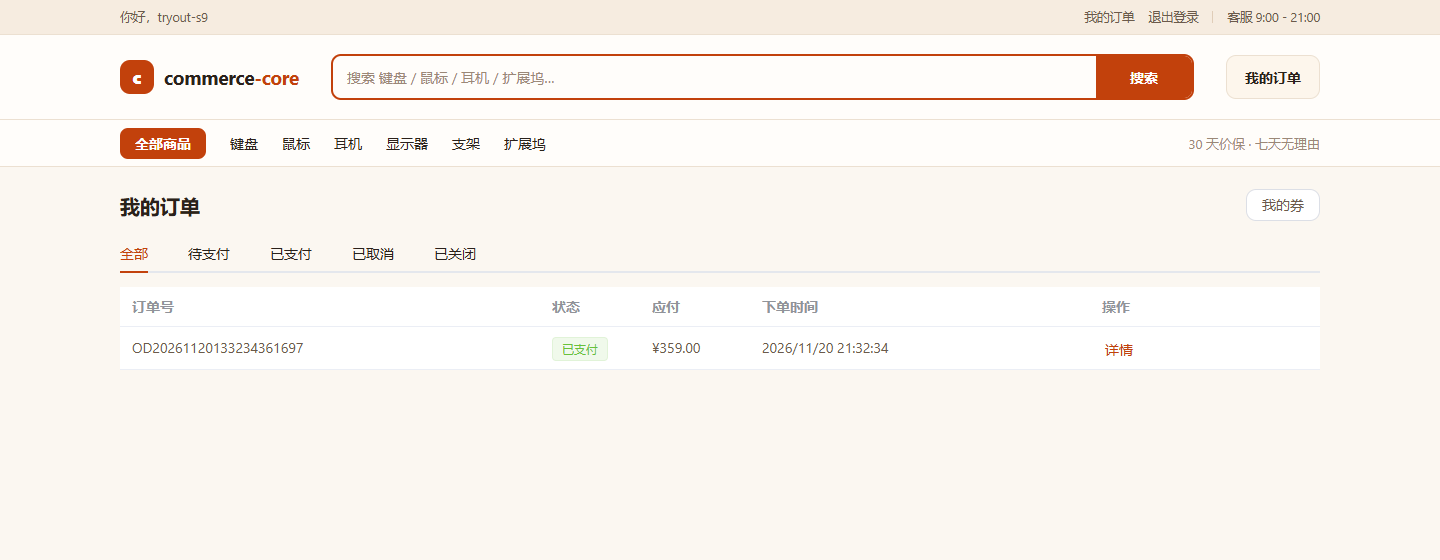
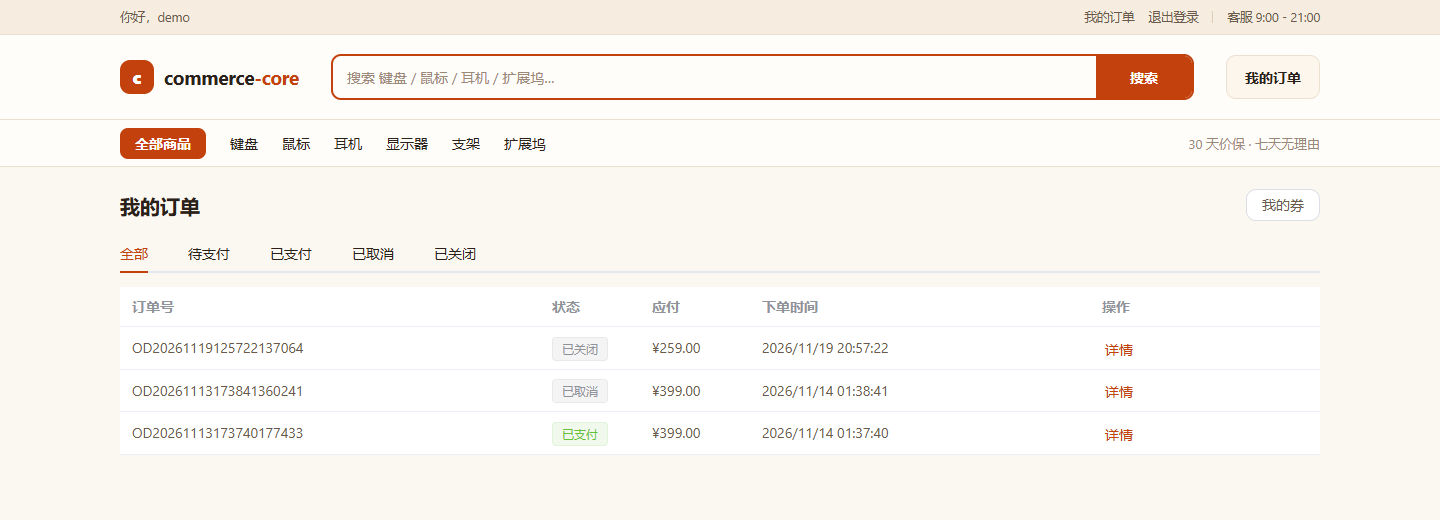
docs: S9 上线后同步 README 界面截图、STATUS 与 phase9 证据
README 四张图换成线上实拍（demo 账号），接口表补 /auth/register 与新的筛选参数，不做清单去掉注册。

STATUS 指向 643049d 与 S10；phase9 补上线记录与服务器 seed 结果。

diff --git a/STATUS.md b/STATUS.md
@@ -1,30 +1,27 @@
 # STATUS
 
-> 更新于 2026-11-20（S9 开发完成，待合回 main 上线）。滚动覆盖，不追加历史。目标：10 秒读完。
+> 更新于 2026-11-20（S9 已上线并验证）。滚动覆盖，不追加历史。目标：10 秒读完。
 
 ## 现在在哪
 
 **一期 S0–S8 已交付并封口**：业务闭环在公网跑通，CI/CD 与回滚演练过，
 外部独立审查 10 项全部修完并终审通过（审查对象 `4ec7f93`）。
 
-**二期 S9–S14 已立项**，S9「视觉与身份」在 `phase2` 分支做完，本地验收通过，**尚未合回 main**。
+**二期 S9「视觉与身份」已上线**：30 个商品带图、首页、注册页、暖色主题都在公网生效。
 
 - 公网：`http://120.24.67.82:8080`（无域名无 HTTPS）
-- 线上版本：`5fa7903`（`.current_tag`；**线上还是老的 6 个商品、无注册**）
+- 线上版本：`643049d`（`.current_tag`；上一版 `5fa7903` 在 `.previous_tag`）
+- 线上数据：30 个商品（6 类 × 5）、35 个 SKU、3 张券，`seed_demo` 已在服务器跑过
 - 服务器 6 个容器：api(healthy) / web / worker / beat / mysql(healthy) / redis(healthy)
 - 测试：**133 个用例**全过（一期 118 + S9 新增 15）；注释密度 1.8%；ruff / eslint / build 均通过
 - 分支：二期在 `phase2` 上开发，**每个阶段完成合回 main**（一次合并 = 一次部署）
 
 ## 下一步
 
-**S9 收尾上线**：
+**S10 购物车**：`cart_item` 表（唯一约束 `user + sku`）、加购 / 改量 / 删除、
+购物车页、`POST /orders` 支持从购物车结算、下单后清空购物车。
 
-1. 合 `phase2` → `main`，CI 绿后自动部署；
-2. 线上跑 `seed_demo`（补 24 个商品与分类/封面）；
-3. 用线上环境重新截三张图，替换 README §2；
-4. 线上走一遍 注册 → 下单 → 支付。
-
-之后进 **S10 购物车**（`cart_item` 表、加购/改量/删除、购物车页、结算改为从购物车下单）。
+开工前要定一件事：商品详情页是**只留「加入购物车」**，还是**「立即购买」和「加入购物车」并列**。
 
 ## 卡点
 
@@ -49,7 +46,7 @@
 
 ## 未验证 / 已知边界
 
-- **S9 只在本地验证过**，线上还是 `5fa7903`（6 个商品、无注册、旧界面）
+- **S9 已上线**，`/api/v1/products` 线上返回 30 个、8 个热销、每类 5 个、无缺封面
 - 一期审查结论只覆盖提交 `4ec7f93`，二期新增代码不在其覆盖范围内
 - 注册与登录**还没有限流**（S13 统一接）
 - 首页「热销」是后台手选的 8 个，不是销量排序

diff --git a/docs/phases/phase9.md b/docs/phases/phase9.md
@@ -94,6 +94,21 @@ $ python manage.py seed_demo
 3. 机械键盘 104 键 → 立即下单 → 订单详情抽屉显示待支付；
 4. 模拟支付 → 已支付。
 
+### 上线
+
+| 项 | 结果 |
+|---|---|
+| 合并 | `main` 收到 `643049d`（`--no-ff` 合并 `phase2`），推 GitHub 与 Gitee |
+| CI | lint / test / build & push / deploy 四段全绿 |
+| 部署 | `.current_tag` 从 `5fa7903` 变 `643049d`，6 个容器全部起来，api healthy |
+| 迁移 | `deploy.sh` 自动跑了 `0002_product_category_cover_featured` |
+| 种子 | 服务器上 `seed_demo`：新增 24 个商品、补齐 6 个的分类与封面，当前 30 个 |
+| 接口 | `/api/v1/products` count=30、`is_featured=1` 8 个、`category=keyboard` 5 个、无缺封面 |
+| 静态 | `/img/products/kbd-87.svg` 200，跟着 web 镜像一起发出来 |
+
+线上用 `demo` 账号走了一遍：登录成功、首页 30 个商品、订单列表三种状态并存。
+README §2 的四张图全部换成线上实拍。
+
 ## 踩到的坑
 
 - **SVG 没有 `width/height` 只有 `viewBox`**：作为 `<img>` 加载时浏览器按 150×150 算固有尺寸。
@@ -119,4 +134,4 @@ $ python manage.py seed_demo
 
 - 购物车（S10）：卡片右下角的「+」现在就是打开详情页，不是加购；
 - 地址与物流（S11）、评论（S12）、后台与看板（S13）、退款（S14）；
-- README 的界面段落：等上线后从线上环境重新截图再改，本地开发环境的截图不作为最终图。
+- 注册与登录限流（S13）。

diff --git a/README.md b/README.md
@@ -39,7 +39,7 @@
 ## 2. 界面
 
 前端是 Vue 3 + Element Plus，主题来自一组 CSS 变量（米白底 + 陶土橙 #c2410c）。
-下面三张取自本地开发环境，与线上是同一份构建产物。
+下面四张都取自线上环境（`demo` 账号）。
 
 ![首页](docs/images/ui-home.png)
 
